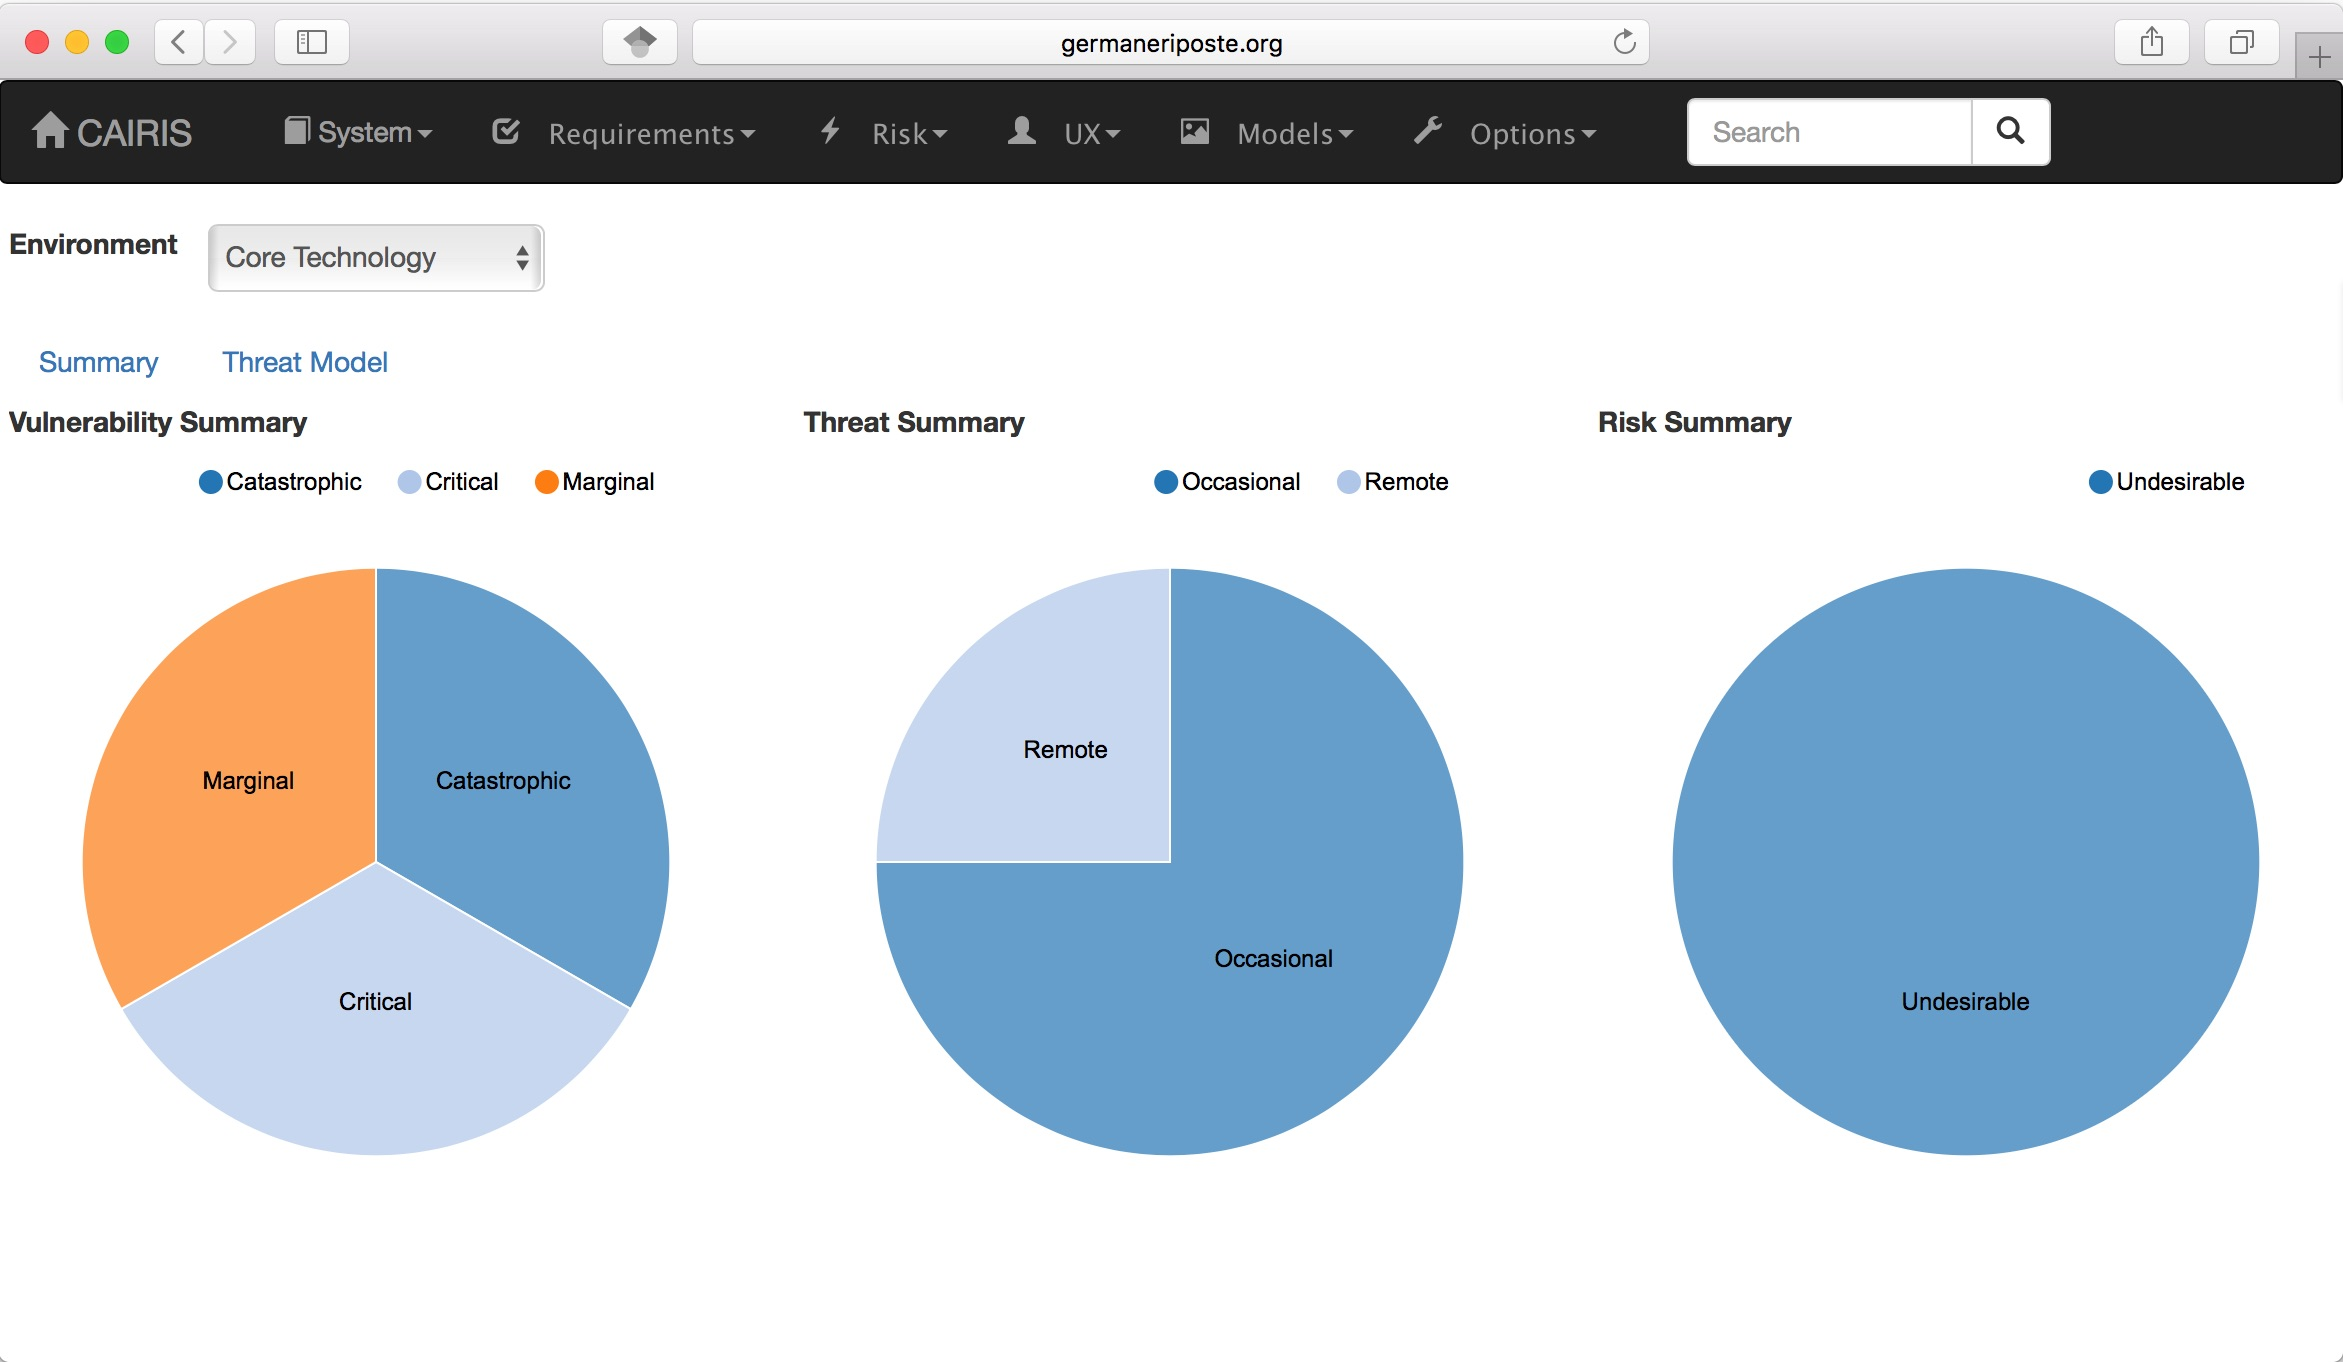
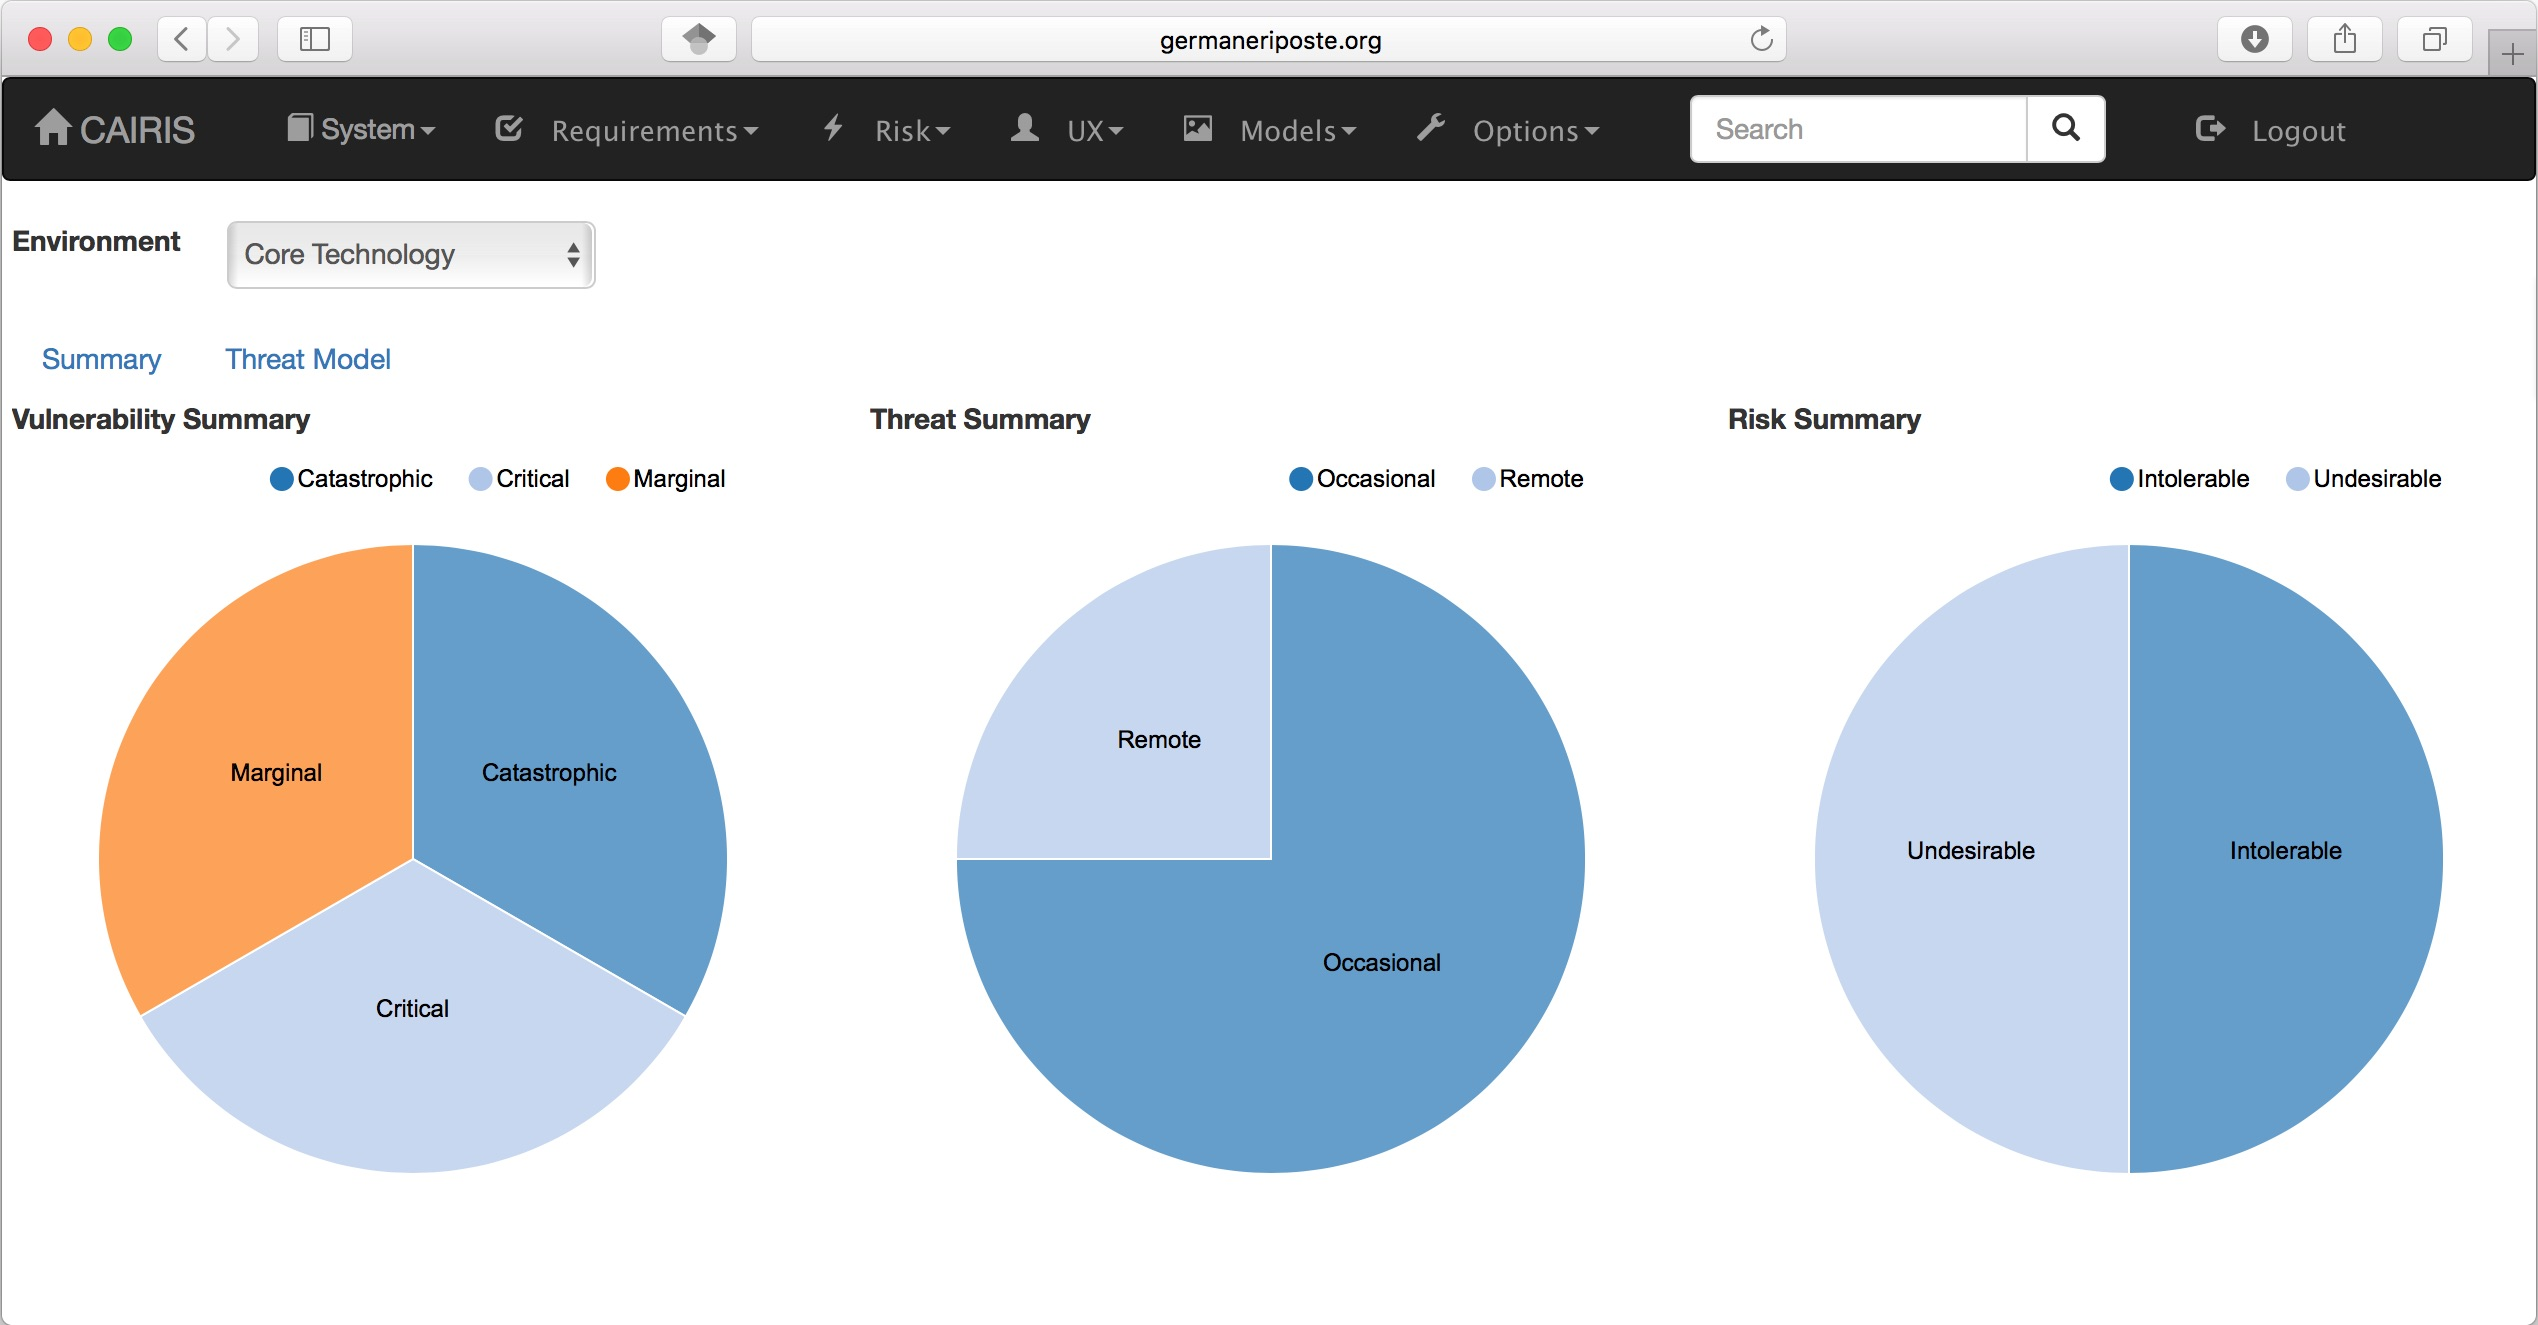
Document logout functionality

diff --git a/docs/starting.rst b/docs/starting.rst
@@ -1,7 +1,6 @@
 Starting CAIRIS
 ===============
 
-
 You can use CAIRIS on any modern web browser.  To start using CAIRIS, visit the site hosting CAIRIS services, e.g. http://demo.cairis.org, and authenticate using the credentials provided.  For example, on http://demo.cairis.org, you can login with the username / password of test / test.
 
 .. figure:: login.jpg
@@ -11,3 +10,5 @@ Once you login in you should see the home page, which provides a summary of thre
 
 .. figure:: landingPage.jpg
    :alt: CAIRIS home page
+
+Once you have finished working with CAIRIS, click on the Logout button.
